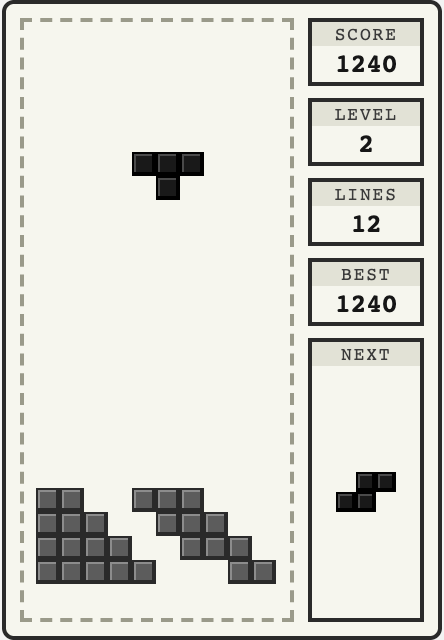
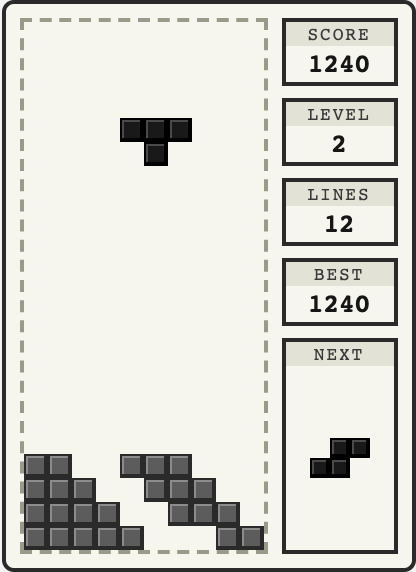
fix: 棋盘精确填满虚线框，砖块可以沉底

Changed region(s): [[0.0, 0.0, 1.0, 1.0], [0.2812, 0.208, 0.4688, 0.3269]]

diff --git a/src/webview/main.ts b/src/webview/main.ts
@@ -3,7 +3,7 @@ import type { ActivePiece, GameEvent, GameState, GameStatus, Input, PieceKind, S
 import { COLS, PIECE_KINDS, ROWS } from "../game/types";
 import { AudioEngine } from "./audio";
 import { isSoftDropKey, keyToAction } from "./input";
-import { drawBoard, drawClearAnimation, drawNext } from "./renderer";
+import { boardCellFor, drawBoard, drawClearAnimation, drawNext } from "./renderer";
 import { applySkinToDom, paletteFor, watchTheme, type Palette } from "./skin";
 
 declare function acquireVsCodeApi(): {
@@ -142,10 +142,20 @@ function render(): void {
   const showGame =
     !settings.disguise || state.status === "running" || state.status === "gameOver";
 
+  // 先切显示状态，fitBoardArea 才能量到真实尺寸。
   gameSection.classList.toggle("hidden", !showGame);
   scratchSection.classList.toggle("hidden", showGame);
 
+  if (showGame !== lastShowGame) {
+    lastShowGame = showGame;
+    stageDirty = true;
+  }
+
   if (showGame) {
+    if (stageDirty) {
+      fitBoardArea();
+      stageDirty = false;
+    }
     if (clearAnimation) {
       const progress = (performance.now() - clearAnimation.startedAt) / CLEAR_ANIMATION_MS;
       if (progress < 1) {
@@ -419,6 +429,69 @@ document.addEventListener("visibilitychange", () => {
 });
 
 let lastFrame = performance.now();
+let stageDirty = true;
+let lastShowGame = false;
+
+/**
+ * 虚线框以前是 10:22 的固定比例、由宿主高度撑满，但棋盘格只能取整数，
+ * 于是框比棋盘高，砖块永远够不到底。这里反算整数格尺寸，让外壳和虚线框
+ * 收缩到棋盘大小（各方向只留 1px 呼吸缝）。
+ */
+function fitBoardArea(): void {
+  const consoleEl = boardWrap.parentElement;
+  const sideEl = consoleEl?.querySelector<HTMLElement>(".side");
+  if (!consoleEl || !sideEl) return;
+
+  const gameRect = gameSection.getBoundingClientRect();
+  const gameStyle = getComputedStyle(gameSection);
+  const px = (value: string): number => Number.parseFloat(value) || 0;
+  const availW = gameRect.width - px(gameStyle.paddingLeft) - px(gameStyle.paddingRight);
+  const availH = gameRect.height - px(gameStyle.paddingTop) - px(gameStyle.paddingBottom);
+  if (availW <= 0 || availH <= 0) return;
+
+  const consoleStyle = getComputedStyle(consoleEl);
+  const sideWidth = sideEl.getBoundingClientRect().width;
+  const gap = px(consoleStyle.columnGap) || px(consoleStyle.gap);
+
+  const boardSpaceW =
+    availW -
+    px(consoleStyle.borderLeftWidth) -
+    px(consoleStyle.borderRightWidth) -
+    px(consoleStyle.paddingLeft) -
+    px(consoleStyle.paddingRight) -
+    sideWidth -
+    gap;
+  const boardSpaceH =
+    availH -
+    px(consoleStyle.borderTopWidth) -
+    px(consoleStyle.borderBottomWidth) -
+    px(consoleStyle.paddingTop) -
+    px(consoleStyle.paddingBottom);
+
+  // 虚线框自身 2px 描边 ×2；呼吸缝 0，棋盘正好贴住虚线内侧。
+  const border = 4;
+  const breathing = 0;
+  const cell = boardCellFor(boardSpaceW - border - breathing, boardSpaceH - border - breathing);
+  if (cell === null) {
+    // 空间不够放下最小格子：交回 CSS，让 renderer 去显示「面板太窄」。
+    boardWrap.style.removeProperty("width");
+    boardWrap.style.removeProperty("height");
+    consoleEl.style.removeProperty("height");
+    return;
+  }
+
+  const wrapW = cell * COLS + border + breathing;
+  const wrapH = cell * ROWS + border + breathing;
+  boardWrap.style.width = `${wrapW}px`;
+  boardWrap.style.height = `${wrapH}px`;
+  consoleEl.style.height = `${
+    wrapH +
+    px(consoleStyle.paddingTop) +
+    px(consoleStyle.paddingBottom) +
+    px(consoleStyle.borderTopWidth) +
+    px(consoleStyle.borderBottomWidth)
+  }px`;
+}
 
 function frame(now: number): void {
   const delta = Math.min(100, Math.max(0, now - lastFrame));
@@ -434,7 +507,10 @@ function frame(now: number): void {
   requestAnimationFrame(frame);
 }
 
-new ResizeObserver(() => render()).observe(boardWrap);
+new ResizeObserver(() => {
+  stageDirty = true;
+  render();
+}).observe(gameSection);
 
 watchTheme(() => {
   palette = paletteFor(settings.skin);

diff --git a/src/webview/renderer.ts b/src/webview/renderer.ts
@@ -1,12 +1,12 @@
 import { shapeAt } from "../game/tetromino";
-import { COLS, ROWS, type GameState, type PieceKind } from "../game/types";
+import { COLS, MAX_CELL_PX, ROWS, type GameState, type PieceKind } from "../game/types";
 import type { Palette, Shades } from "./skin";
 
 /**
  * 格子始终取整数像素，保证像素边缘清晰。
- * 上限 12px：侧边栏再宽也不会变成巨型砖块；窄于 120px 时按宽度等比缩小。
+ * 上限由 MAX_CELL_PX 控制；棋盘尺寸由 main.ts 精确设置成 10×22 格，
+ * 因此正常情况下 offset 为 0，虚线框内没有上下留白。
  */
-const MAX_CELL = 12;
 const MIN_CELL = 6;
 
 function prepareCanvas(
@@ -39,9 +39,18 @@ interface BoardLayout {
   readonly offsetY: number;
 }
 
+/**
+ * 在给定空间里能放下的最大整数格尺寸。
+ * 主界面用它反推虚线框应该收缩到多大，保证棋盘正好贴边（只留 1px 呼吸缝）。
+ */
+export function boardCellFor(width: number, height: number): number | null {
+  const cell = Math.min(MAX_CELL_PX, Math.floor(Math.min(width / COLS, height / ROWS)));
+  return cell >= MIN_CELL ? cell : null;
+}
+
 function boardLayout(width: number, height: number): BoardLayout | null {
-  const cell = Math.min(MAX_CELL, Math.floor(Math.min(width / COLS, height / ROWS)));
-  if (cell < MIN_CELL) return null;
+  const cell = boardCellFor(width, height);
+  if (cell === null) return null;
   return {
     cell,
     boardWidth: cell * COLS,

diff --git a/src/webview/style.css b/src/webview/style.css
@@ -127,7 +127,7 @@ body[data-skin="transparent"] {
   display: flex;
   gap: 7px;
   box-sizing: border-box;
-  height: 100%;
+  height: auto;
   max-height: 320px;
   padding: 7px;
   border: 2px solid var(--screen-border);
@@ -139,8 +139,8 @@ body[data-skin="transparent"] {
   position: relative;
   box-sizing: border-box;
   flex: none;
-  height: 100%;
-  aspect-ratio: 10 / 22;
+  width: 124px;
+  height: 268px;
   overflow: hidden;
   border: 2px dashed var(--screen-dash);
   background: var(--screen);

diff --git a/src/game/types.ts b/src/game/types.ts
@@ -3,6 +3,9 @@ export const COLS = 10;
 export const ROWS = 22;
 export const MAX_LEVEL = 15;
 
+/** 单个格子的最大像素尺寸（webview 布局与渲染共用）。 */
+export const MAX_CELL_PX = 12;
+
 export type PieceKind = "I" | "O" | "T" | "S" | "Z" | "J" | "L";
 
 /** 顺序固定，随机数取模后按这个表选方块。 */

diff --git a/CHANGELOG.md b/CHANGELOG.md
@@ -1,5 +1,9 @@
 # 更新日志
 
+## 0.4.2
+
+- 棋盘尺寸改为按可用高度精确计算的 10×22 格，虚线框内不再有上下留白，方块可以真正沉底。
+
 ## 0.4.1
 
 - 信息栏新增 `BEST`，历史最高分重新可见。
